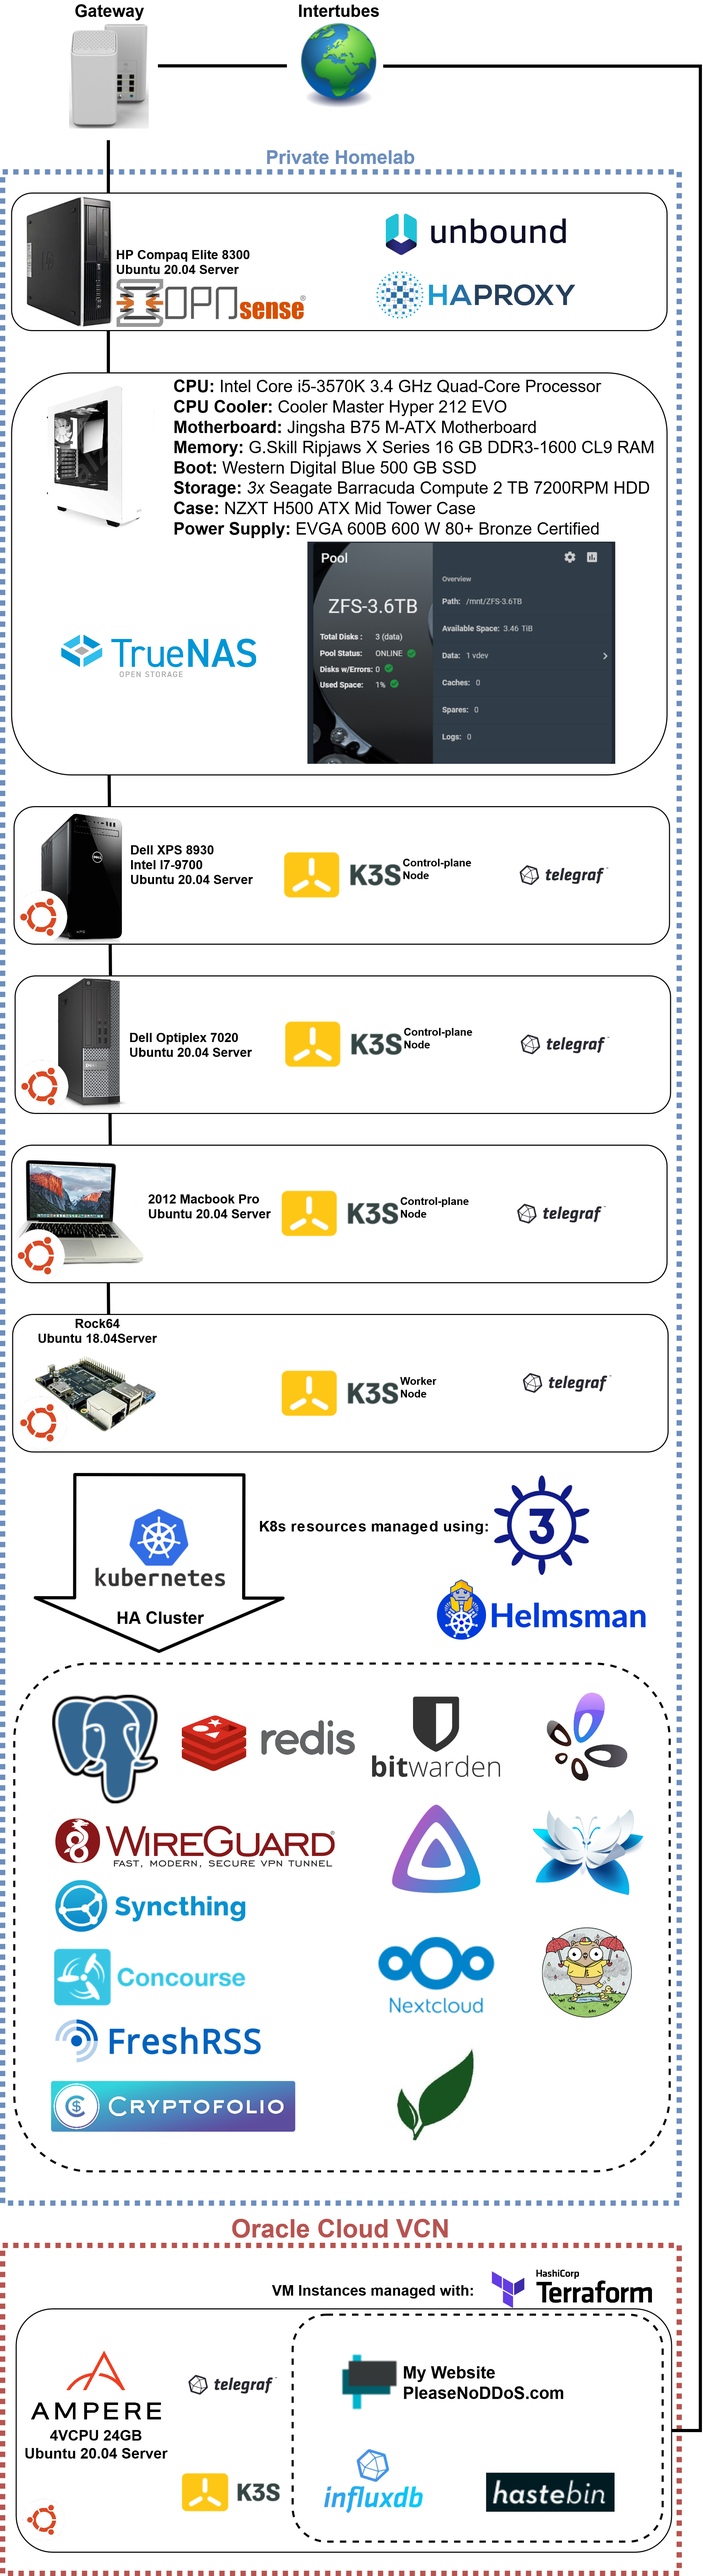
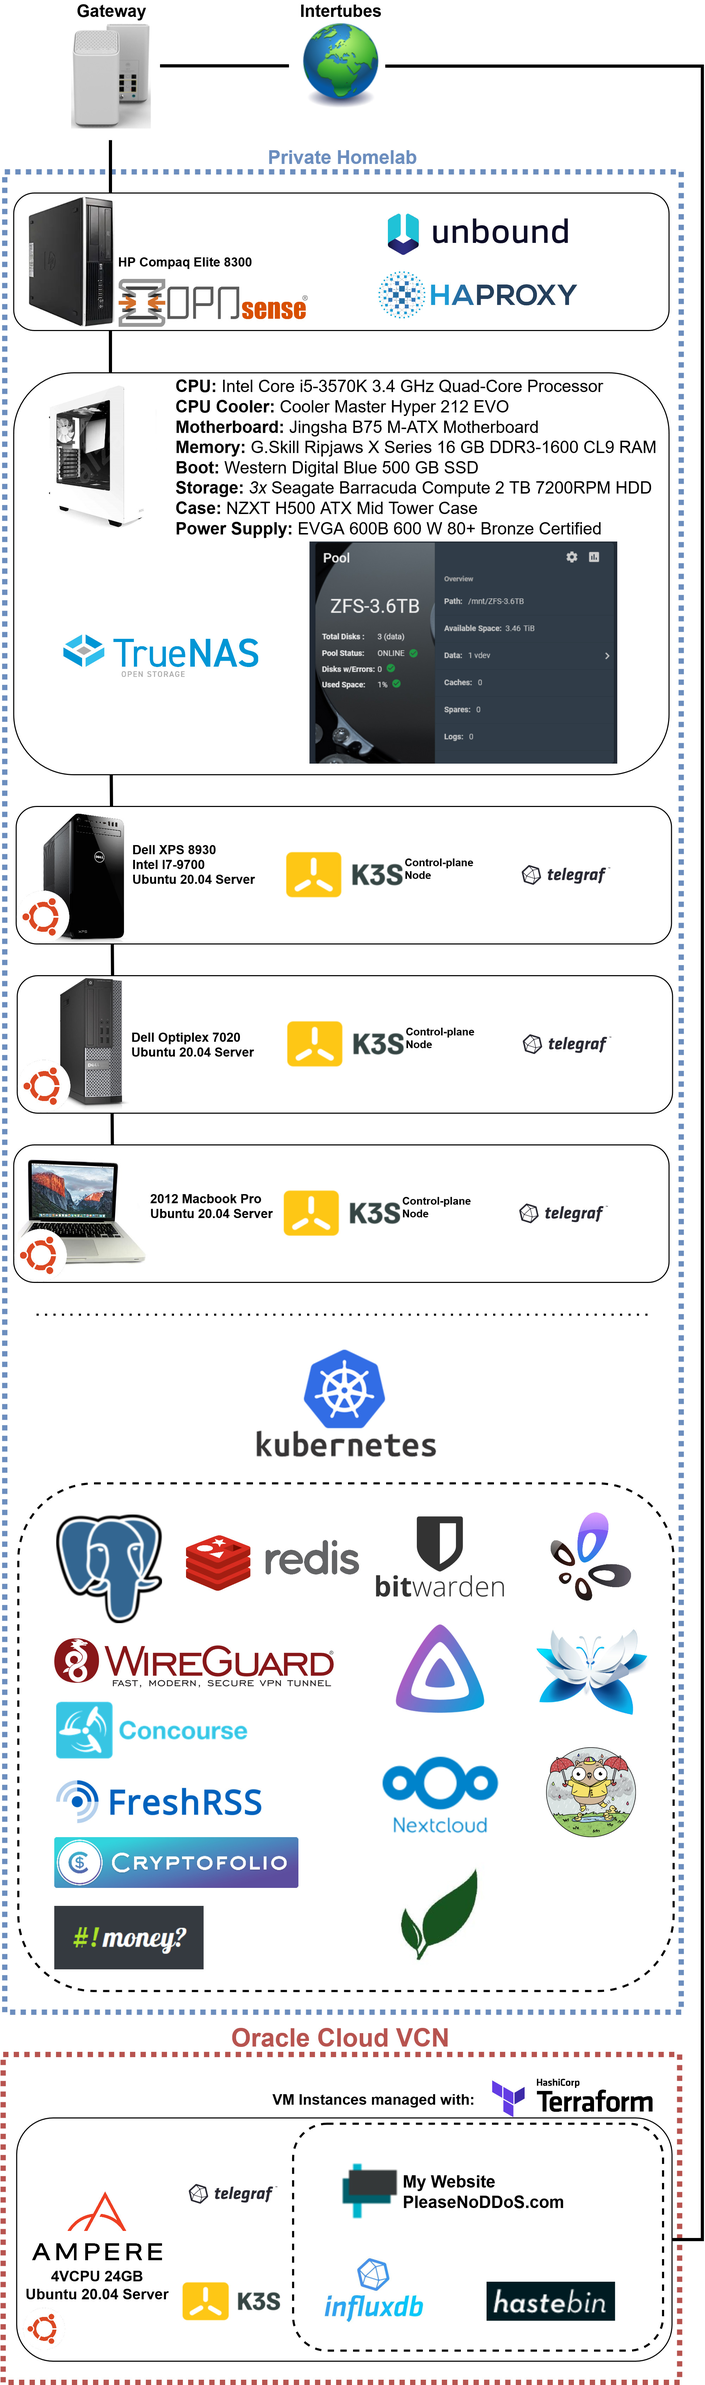
paperless ihatemoney

diff --git a/flipenergy/content/post/paperless_and_ihatemoney.md b/flipenergy/content/post/paperless_and_ihatemoney.md
@@ -1,0 +1,19 @@
+---
+title: "Paperless and Ihatemoney"
+date: 2022-07-09T09:28:08-07:00
+draft: false
+---
+
+# [Paperless-ngx](https://github.com/paperless-ngx/paperless-ngx)
+![Paperless](paperless.png)
+In my life long quest to own as few physical things as possible (unless they spark joy, of course), I am thankful to have found Paperless. This tool is a document archival and indexing platform where I can upload scanned documents. These uploads then can be tagged, placed in categories, or even have an associated correspondent, making organization super clean and simple. The best part about this tool is the OCR (Optical Character Recognition) that is automatically run on each document. What this means is I can actually look for documents that contain what I've searched. No longer do I need to skim through multiple documents looking for some specific line I vaguely remember. I also find this is a great way to keep instruction manuals that I want to reference in the future.
+
+Paperless only requires Redis as cache to speed up searching and indexing so it is rather light-weight. As usual, I run this through a [helm chart](https://artifacthub.io/packages/helm/k8s-at-home/paperless) from the wonderful [k8s-at-home repository](https://github.com/k8s-at-home/charts). Two thumbs up.
+
+---
+
+# [Ihatemoney](https://github.com/spiral-project/ihatemoney)
+![Ihatemoney](ihatemoney.png)
+Simple little web application that lets you create one or more ledgers where you can track shared budget amongst multiple people. It's not fancy by any means but it works and is now used by my girlfriend and I almost daily. If you've used splitwise, it basically solves the same problem. You can add bills or settlements manually and it'll calculate who owes who how much and even track spending month over month for each person. A simple feature it has that I love is the ability to type out simple math expressions directly in the amount field.
+
+I also ended up adding a simple [helm chart](https://artifacthub.io/packages/helm/k8s-at-home/ihatemoney) to run this. You can again find it at [k8s-at-home](https://github.com/k8s-at-home/charts).
